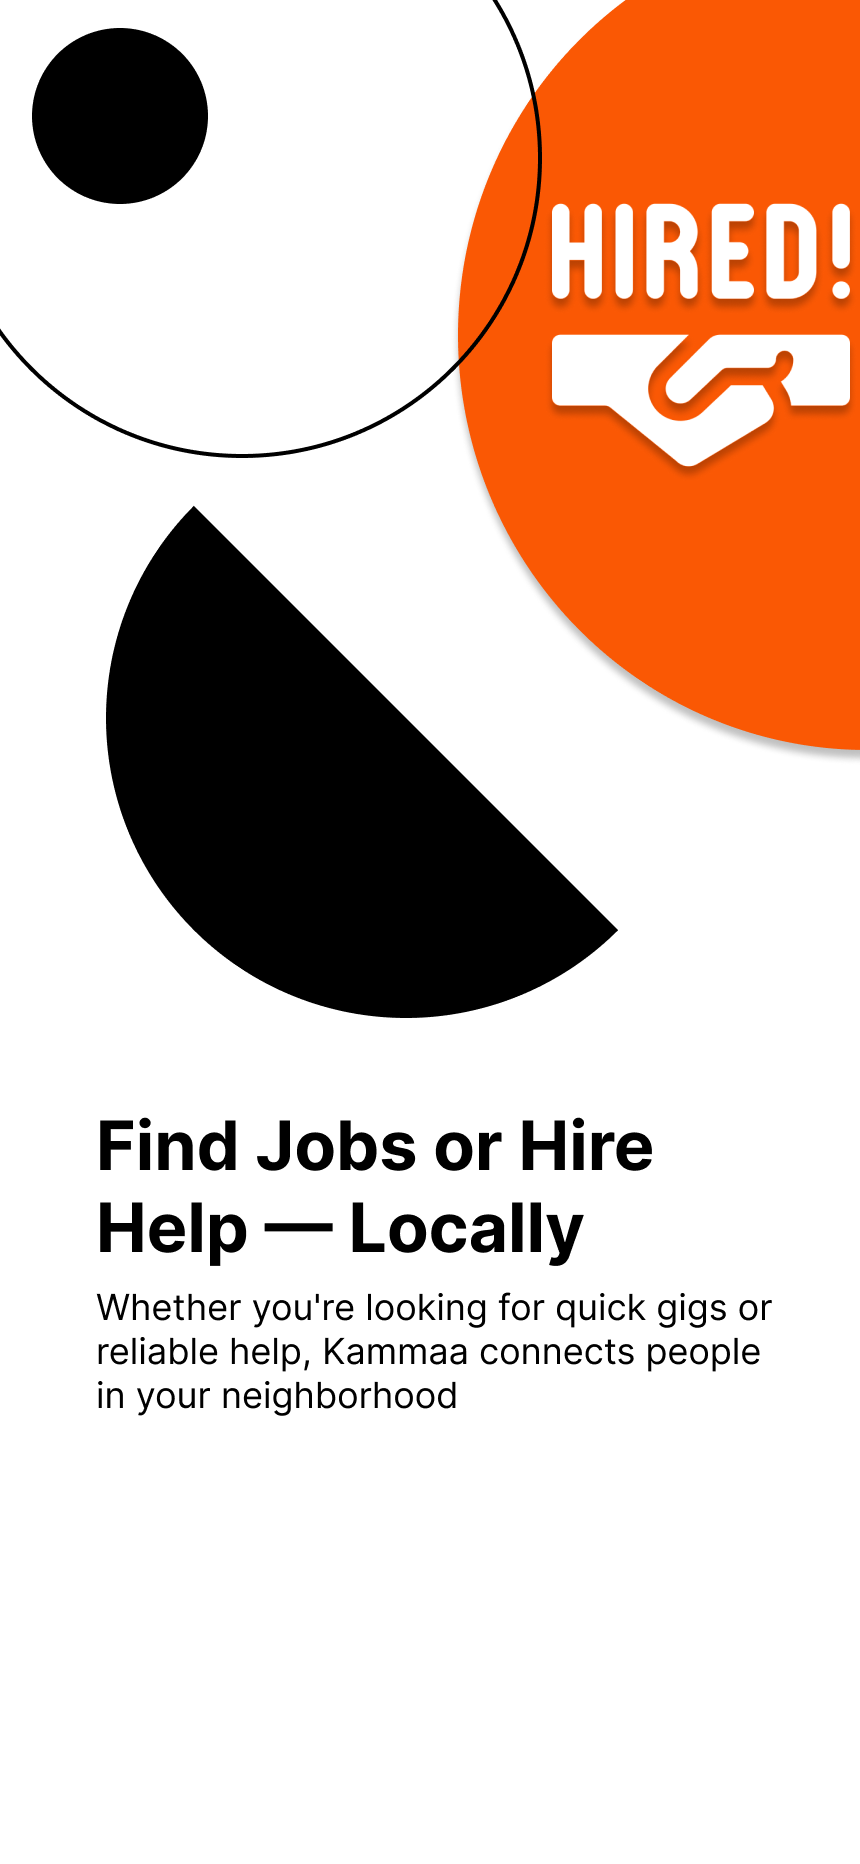
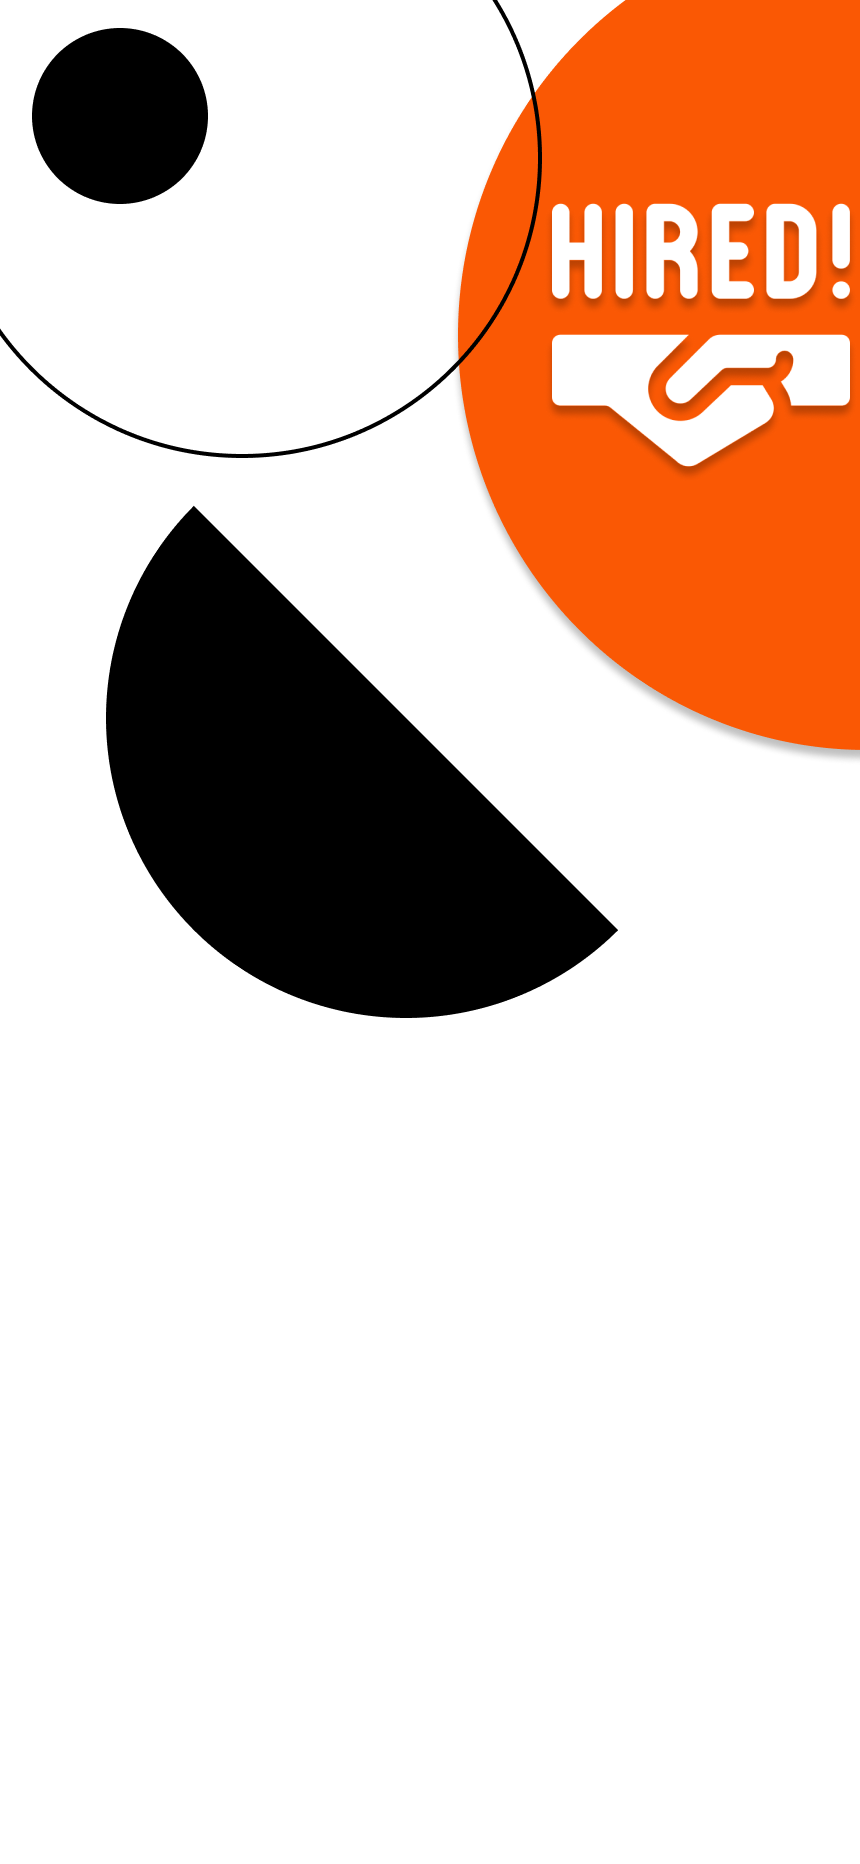
Stack implemented in onboarding

Changed region(s): [[0.0907, 0.5912, 0.8767, 0.7779]]

diff --git a/dev/kaammaa/lib/view/onboarding_view.dart b/dev/kaammaa/lib/view/onboarding_view.dart
@@ -25,129 +25,186 @@ class _OnboardingViewState extends State<OnboardingView> {
     final screenHeight = MediaQuery.of(context).size.height;
 
     return Scaffold(
-      body: Column(
-        children: [
-          Expanded(
-            child: PageView(
-              controller: controller,
-              onPageChanged: (index) {
-                setState(() => isLastPage = index == 2);
-              },
-              children: [
-                _buildPage("assets/images/onboard1.png"),
-                _buildPage("assets/images/onboard2.png"),
-                _buildPage("assets/images/onboard3.png"),
-              ],
+      body: SafeArea(
+        child: Column(
+          children: [
+            Expanded(
+              child: PageView(
+                controller: controller,
+                onPageChanged: (index) {
+                  setState(() => isLastPage = index == 2);
+                },
+                children: [
+                  _buildPage(
+                    imagePath: "assets/images/onboard1.png",
+                    title: "Find Jobs or Hire Help — Locally",
+                    description:
+                        "Whether you're looking for quick gigs or reliable help, KaamMaa connects people in your neighborhood",
+                  ),
+                  _buildPage(
+                    imagePath: "assets/images/onboard2.png",
+                    title: "Post or Browse Jobs in Seconds",
+                    description:
+                        "Post a job with a few details, or browse nearby tasks based on your skills or needs.",
+                  ),
+                  _buildPage(
+                    imagePath: "assets/images/onboard3.png",
+                    title: "Reliable, Reviewed, and Local",
+                    description:
+                        "All users are verified. You can rate and review every interaction for a safer experience",
+                  ),
+                ],
+              ),
             ),
-          ),
-          Container(
-            padding: EdgeInsets.symmetric(
-              horizontal: screenWidth * 0.05,
-              vertical: screenHeight * 0.015,
-            ),
-            color: Colors.white,
-            child:
-                isLastPage
-                    ? SizedBox(
-                      width: double.infinity,
-                      child: ElevatedButton(
-                        style: ElevatedButton.styleFrom(
-                          backgroundColor: const Color(0xFFFA5804),
-                          padding: EdgeInsets.symmetric(
-                            vertical: screenHeight * 0.02,
-                          ),
-                          shape: RoundedRectangleBorder(
-                            borderRadius: BorderRadius.circular(10),
-                          ),
-                        ),
-                        child: Text(
-                          "Get Started",
-                          style: TextStyle(
-                            fontSize: screenWidth * 0.045,
-                            color: Colors.white,
-                          ),
-                        ),
-                        onPressed: () {
-                          Navigator.of(context).pushReplacement(
-                            MaterialPageRoute(
-                              builder: (context) => const SelectionView(),
-                            ),
-                          );
-                        },
-                      ),
-                    )
-                    : Row(
-                      mainAxisAlignment: MainAxisAlignment.spaceBetween,
-                      children: [
-                        TextButton(
-                          onPressed: () {
-                            controller.jumpToPage(2);
-                          },
-                          child: Text(
-                            "Skip",
-                            style: TextStyle(
-                              color: Colors.black,
-                              fontSize: screenWidth * 0.04,
-                              fontWeight: FontWeight.w500,
-                            ),
-                          ),
-                        ),
-                        SmoothPageIndicator(
-                          controller: controller,
-                          count: 3,
-                          effect: JumpingDotEffect(
-                            dotHeight: screenWidth * 0.03,
-                            dotWidth: screenWidth * 0.03,
-                            spacing: screenWidth * 0.03,
-                            jumpScale: 1.5,
-                            verticalOffset: screenWidth * 0.03,
-                            dotColor: const Color(0xFFD3D3D3),
-                            activeDotColor: const Color(0xFFFA5804),
-                          ),
-                        ),
-                        ElevatedButton(
-                          onPressed: () {
-                            controller.nextPage(
-                              duration: const Duration(milliseconds: 500),
-                              curve: Curves.easeInOut,
-                            );
-                          },
+            Container(
+              padding: EdgeInsets.symmetric(
+                horizontal: screenWidth * 0.05,
+                vertical: screenHeight * 0.015,
+              ),
+              color: Colors.white,
+              child:
+                  isLastPage
+                      ? SizedBox(
+                        width: double.infinity,
+                        child: ElevatedButton(
                           style: ElevatedButton.styleFrom(
                             backgroundColor: const Color(0xFFFA5804),
+                            padding: EdgeInsets.symmetric(
+                              vertical: screenHeight * 0.02,
+                            ),
                             shape: RoundedRectangleBorder(
                               borderRadius: BorderRadius.circular(10),
                             ),
-                            padding: EdgeInsets.symmetric(
-                              vertical: screenHeight * 0.015,
-                              horizontal: screenWidth * 0.05,
-                            ),
                           ),
                           child: Text(
-                            "Next",
+                            "Get Started",
                             style: TextStyle(
+                              fontSize: screenWidth * 0.045,
+                              fontFamily: 'Inter',
                               color: Colors.white,
-                              fontSize: screenWidth * 0.04,
-                              fontWeight: FontWeight.w500,
                             ),
                           ),
+                          onPressed: () {
+                            Navigator.of(context).pushReplacement(
+                              MaterialPageRoute(
+                                builder: (context) => const SelectionView(),
+                              ),
+                            );
+                          },
                         ),
-                      ],
-                    ),
-          ),
-        ],
+                      )
+                      : Row(
+                        mainAxisAlignment: MainAxisAlignment.spaceBetween,
+                        children: [
+                          TextButton(
+                            onPressed: () {
+                              controller.jumpToPage(2);
+                            },
+                            child: Text(
+                              "Skip",
+                              style: TextStyle(
+                                color: Colors.black,
+                                fontSize: screenWidth * 0.04,
+                                fontFamily: 'Inter',
+                                fontWeight: FontWeight.w500,
+                              ),
+                            ),
+                          ),
+                          SmoothPageIndicator(
+                            controller: controller,
+                            count: 3,
+                            effect: JumpingDotEffect(
+                              dotHeight: screenWidth * 0.03,
+                              dotWidth: screenWidth * 0.03,
+                              spacing: screenWidth * 0.03,
+                              jumpScale: 1.5,
+                              verticalOffset: screenWidth * 0.03,
+                              dotColor: const Color(0xFFD3D3D3),
+                              activeDotColor: const Color(0xFFFA5804),
+                            ),
+                          ),
+                          ElevatedButton(
+                            onPressed: () {
+                              controller.nextPage(
+                                duration: const Duration(milliseconds: 500),
+                                curve: Curves.easeInOut,
+                              );
+                            },
+                            style: ElevatedButton.styleFrom(
+                              backgroundColor: const Color(0xFFFA5804),
+                              shape: RoundedRectangleBorder(
+                                borderRadius: BorderRadius.circular(10),
+                              ),
+                              padding: EdgeInsets.symmetric(
+                                vertical: screenHeight * 0.015,
+                                horizontal: screenWidth * 0.05,
+                              ),
+                            ),
+                            child: Text(
+                              "Next",
+                              style: TextStyle(
+                                color: Colors.white,
+                                fontFamily: 'Inter',
+                                fontSize: screenWidth * 0.04,
+                                fontWeight: FontWeight.w500,
+                              ),
+                            ),
+                          ),
+                        ],
+                      ),
+            ),
+          ],
+        ),
       ),
     );
   }
 
-  Widget _buildPage(String imagePath) {
+  Widget _buildPage({
+    required String imagePath,
+    required String title,
+    required String description,
+  }) {
     final screenWidth = MediaQuery.of(context).size.width;
     final screenHeight = MediaQuery.of(context).size.height;
 
-    return Image.asset(
-      imagePath,
-      width: screenWidth,
-      height: screenHeight,
-      fit: BoxFit.cover,
+    return Stack(
+      fit: StackFit.expand,
+      children: [
+        Image.asset(
+          imagePath,
+          width: screenWidth,
+          height: screenHeight,
+          fit: BoxFit.cover,
+        ),
+        Positioned(
+          bottom: screenHeight * 0.15,
+          left: screenWidth * 0.08,
+          right: screenWidth * 0.08,
+          child: Column(
+            crossAxisAlignment: CrossAxisAlignment.start,
+            children: [
+              Text(
+                title,
+                style: TextStyle(
+                  fontFamily: 'Inter',
+                  fontSize: screenWidth * 0.06,
+                  fontWeight: FontWeight.w700,
+                  color: Colors.black,
+                ),
+              ),
+              SizedBox(height: screenHeight * 0.015),
+              Text(
+                description,
+                style: TextStyle(
+                  fontFamily: 'Inter',
+                  fontSize: screenWidth * 0.04,
+                  color: Colors.black87,
+                ),
+              ),
+            ],
+          ),
+        ),
+      ],
     );
   }
 }

diff --git a/dev/kaammaa/lib/view/selection_view.dart b/dev/kaammaa/lib/view/selection_view.dart
@@ -9,7 +9,7 @@ class SelectionView extends StatefulWidget {
 }
 
 class _SelectionViewState extends State<SelectionView> {
-  String? selectedType; // 'provider' or 'customer'
+  String? selectedType;
 
   @override
   Widget build(BuildContext context) {
